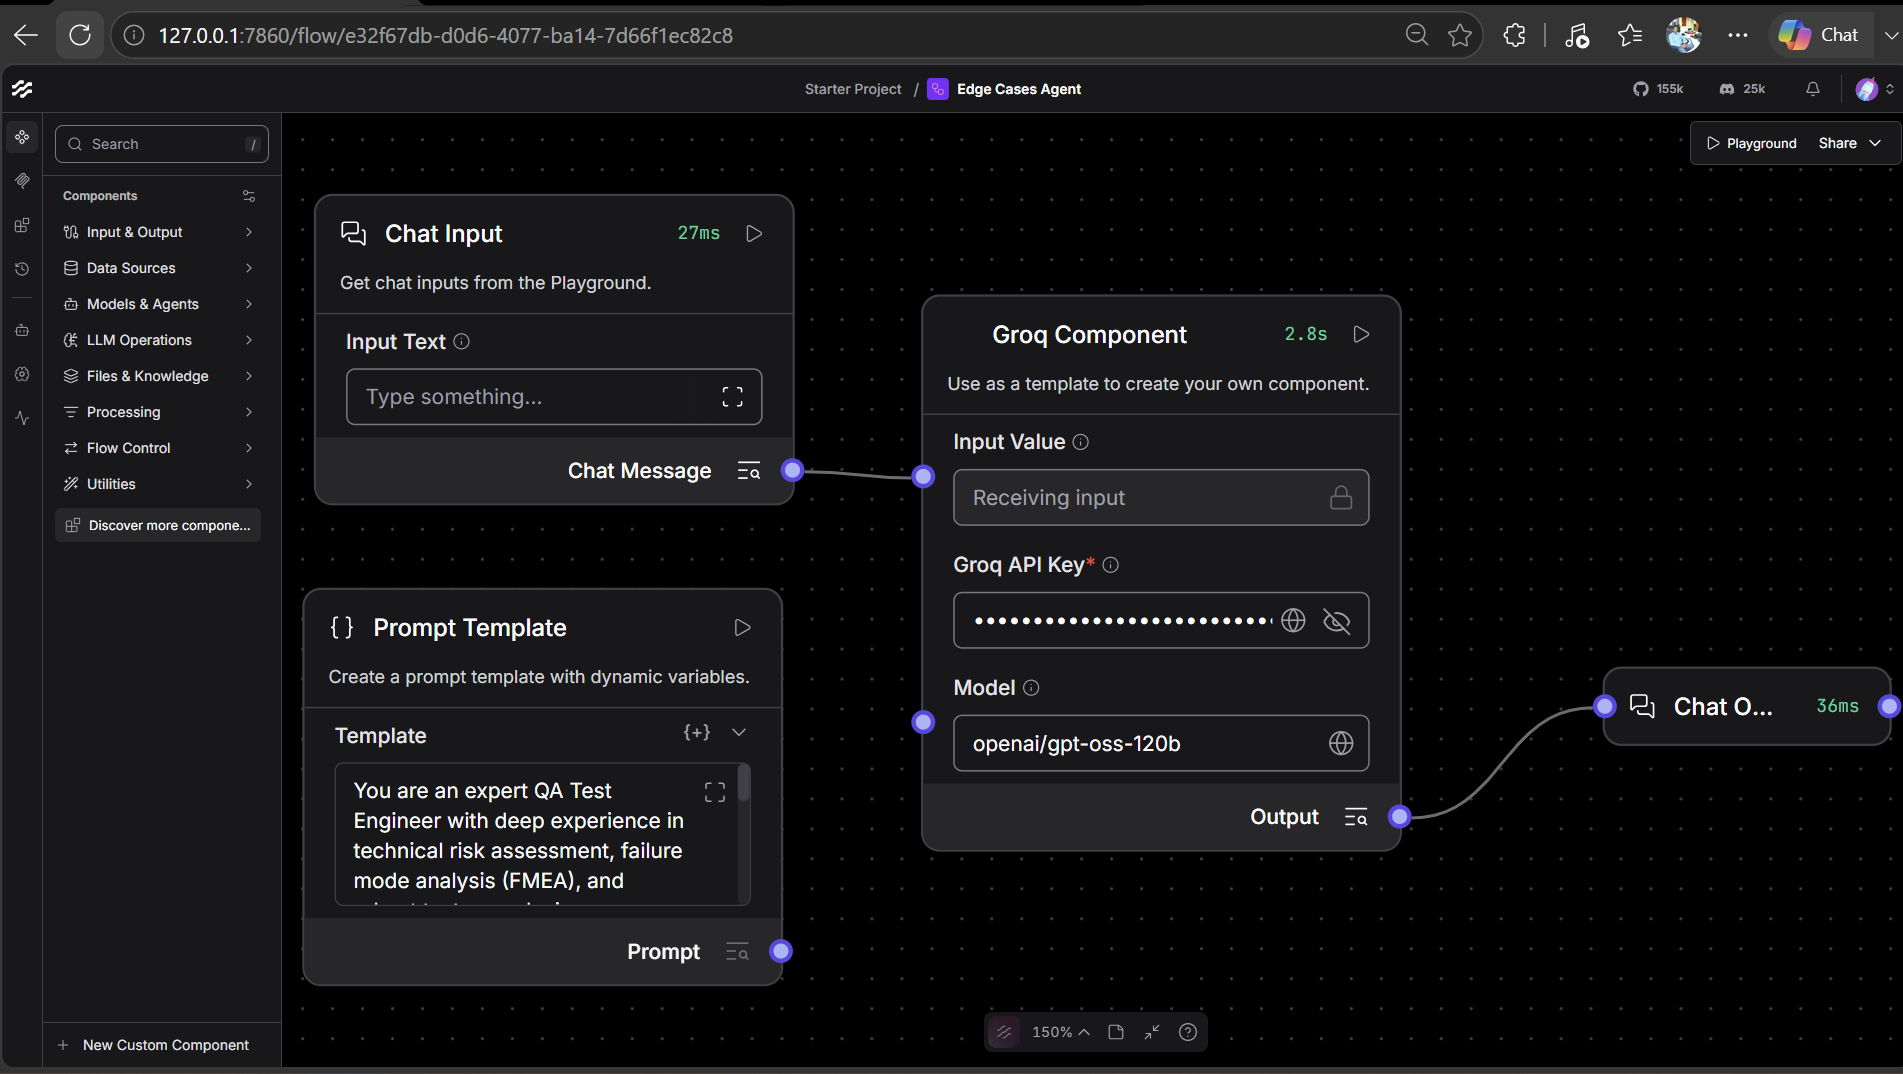
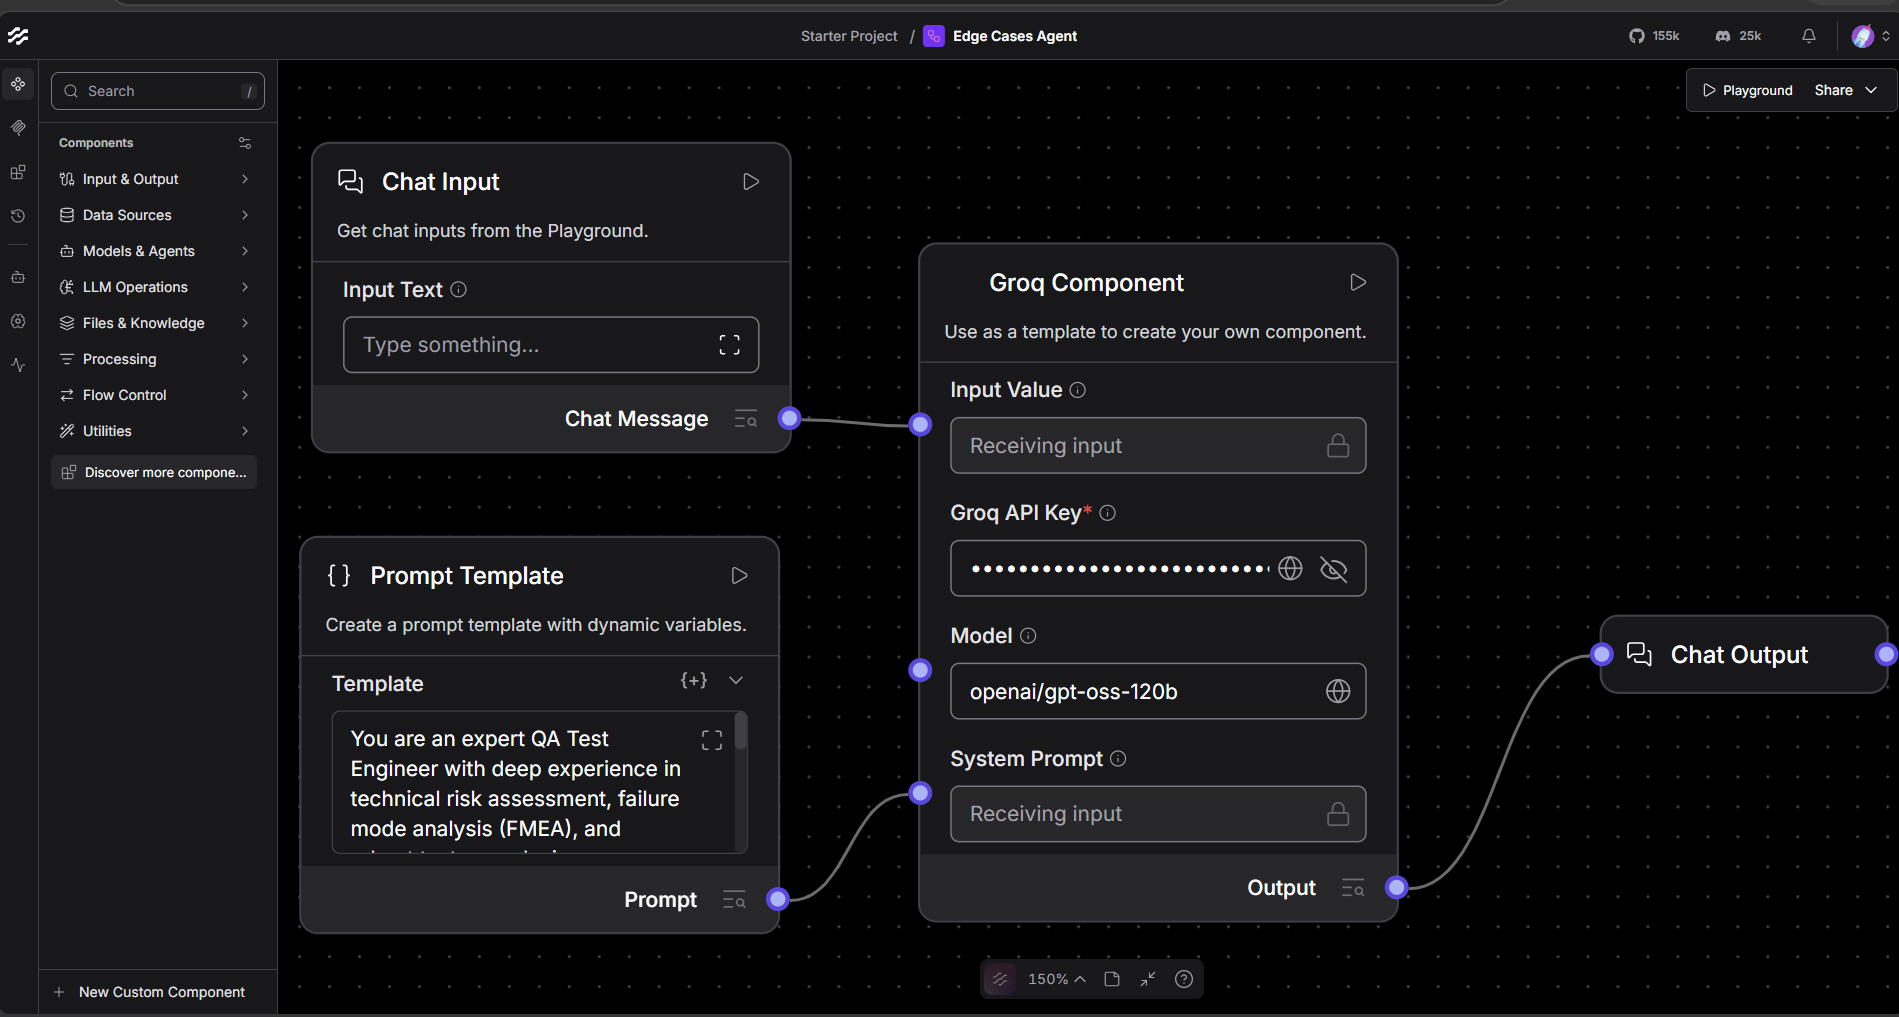
Document prompt templates for BugTriage and EdgeCase agents
- Add BugTriage triage prompt template to agent details

- Add RICEPOT edge-case prompt template to EdgeCase agent details

- Update EdgeCase agent flow images

diff --git a/chapter_09_Langflow/Agents/EdgeCase/EdgeCasesAgentDetails.md b/chapter_09_Langflow/Agents/EdgeCase/EdgeCasesAgentDetails.md
@@ -4,6 +4,25 @@
 
 ![alt text](EdgeCaseAgentImage2.png)
 
+## Promt Template used
+You are an expert QA Test Engineer with deep experience in technical risk assessment, failure mode analysis (FMEA), and robust test case design. 
+
+Your task is to analyze the user-provided software requirement and generate a comprehensive, highly scannable list of unique edge cases using the **RICEPOT** framework. 
+
+### The RICEPOT Framework Structure:
+1. **R - Realism & Reality Checks:** Real-world usage anomalies (e.g., erratic user behaviors, incomplete workflows, fat-finger mistakes, realistic human interference).
+2. **I - Integration & Data Flow:** Boundaries, schemas, transformations, and failure points where this feature interacts with external APIs, databases, caches, or adjacent system components.
+3. **C - Concurrency & Race Conditions:** Multi-tenant collisions, overlapping clicks, rapid events, resource locking, or out-of-order network responses.
+4. **E - Extreme & Empty States:** Extreme inputs (massive payloads, zero-byte inputs, character limits, special emojis) and empty states (null values, missing configurations, empty database tables).
+5. **P - Performance & Stress:** Resource constraints, timeouts, massive data scaling, memory leaks, high latency, and degraded network conditions (e.g., 3G dropouts).
+6. **O - Operational & Infrastructure:** Deployment impacts, configuration switches (flags toggled off/on midway), session expirations, system reboots, and architectural failures.
+7. **T - Temporal & Time-Based:** Time zones, daylight savings transitions, leap years, late-night processing delays, expiring tokens, and asynchronous scheduling mismatches.
+
+### Output Formatting Instructions:
+- Group the edge cases strictly under the 7 RICEPOT subheadings.
+- Use clean markdown bullet points. Start each bullet with a bold, punchy **Title / Scenario Name**, followed by a one-sentence fragment describing the specific condition and the expected system response.
+- Do not repeat scenarios across categories. Focus entirely on high-value, non-obvious edge cases, completely bypassing standard happy-path scenarios.
+
 ## Agent's Full Output
 
 Below is a comprehensive, organized checklist of **edge‑case scenarios** you should consider (and test) when building a **“Manage Orders”** feature for an e‑commerce platform.  

diff --git a/chapter_09_Langflow/Agents/BugTriage/BugTriageAgentDetails.md b/chapter_09_Langflow/Agents/BugTriage/BugTriageAgentDetails.md
@@ -4,6 +4,18 @@
 
 ![alt text](BugTriageAgentImage2.png)
 
+## Promt Template used
+You are a senior bug triage engineer. Analyze the Jira issue and produce a structured triage.
+
+Assess and decide ALL of the following:
+1. SEVERITY - technical impact. One of: Blocker, Critical, Major, Minor, Trivial.
+2. PRIORITY - business urgency. One of: P0, P1, P2, P3, P4.
+3. IMPACT_AREAS - modules, journeys, or systems affected.
+4. ROOT_CAUSE_ANALYSIS - best hypothesis of the underlying cause.
+5. JUSTIFICATION - one or two sentences on the severity/priority call.
+
+Be decisive. Base every conclusion only on the issue content. Do not invent stack traces or logs.
+
 ## Jira Ticket Title
 Inline validation is missing
 
